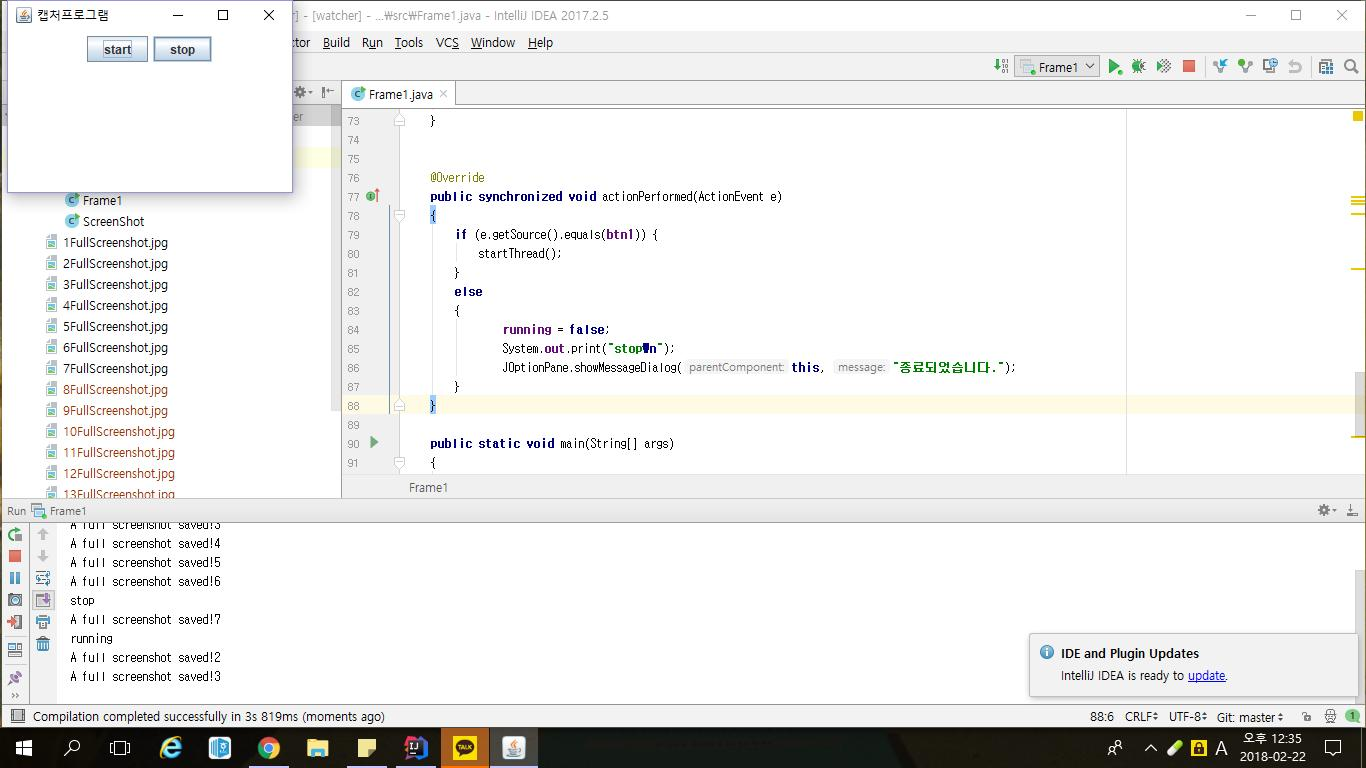
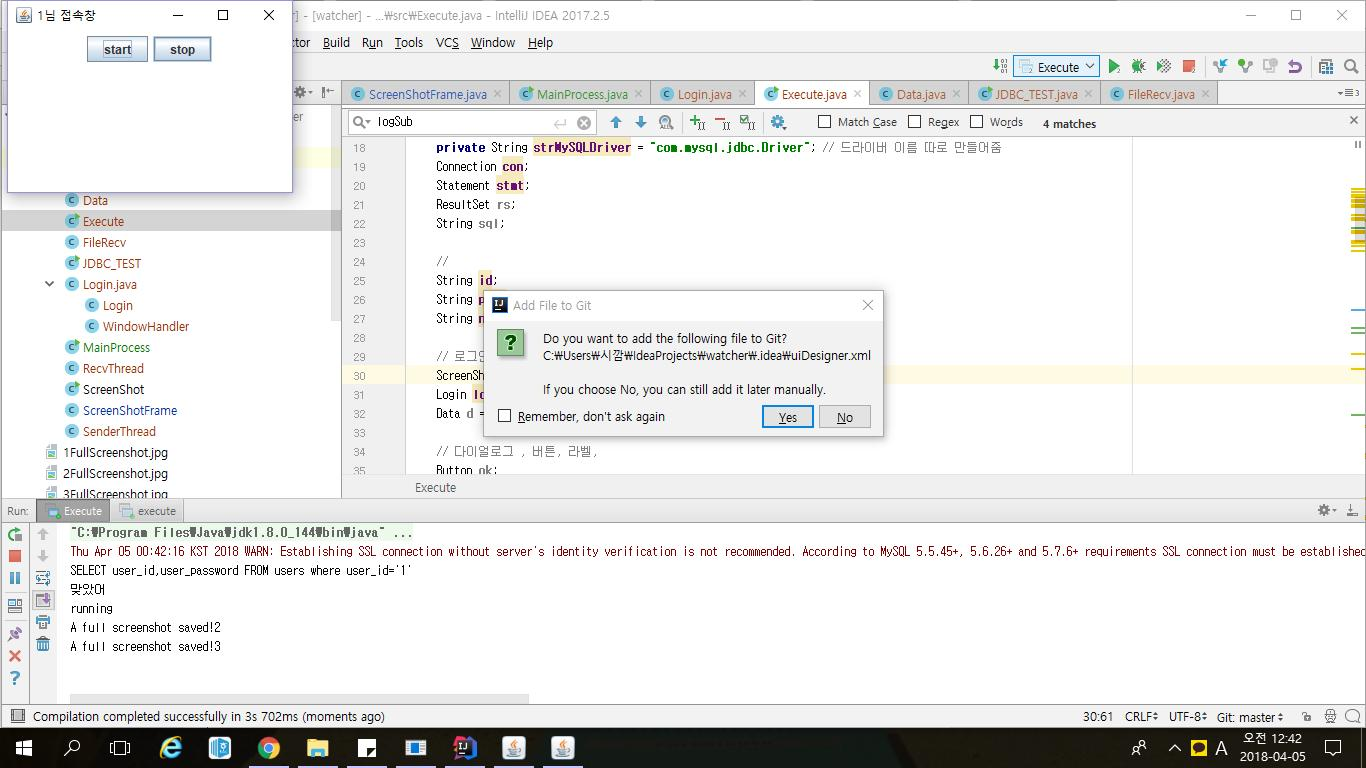
login 기능

diff --git a/src/ScreenShotFrame.java b/src/ScreenShotFrame.java
@@ -3,8 +3,7 @@ import java.awt.Frame;
 import java.awt.event.ActionEvent;
 import java.awt.event.ActionListener;
 
-import javax.swing.JButton;
-import javax.swing.JOptionPane;
+import javax.swing.*;
 
 import java.awt.AWTException;
 import java.awt.Rectangle;
@@ -17,14 +16,17 @@ import java.io.IOException;
 import javax.imageio.ImageIO;
 
 
-public class Frame1 extends Frame implements ActionListener
+public class ScreenShotFrame extends Frame implements ActionListener
 {
     JButton btn1 = new JButton("start");
     JButton btn2 = new JButton("stop");
+    JLabel greetingLabel = new JLabel("aa");
+
+
     boolean running = false;
 
 
-    public Frame1()
+    public ScreenShotFrame()
     {
 
         super("캡처프로그램");
@@ -34,7 +36,7 @@ public class Frame1 extends Frame implements ActionListener
         this.add(btn2);
 
         this.setSize(300, 200);
-        this.setVisible(true);
+        this.setVisible(false);
 
         btn1.addActionListener(this);
         btn2.addActionListener(this);
@@ -85,13 +87,6 @@ public class Frame1 extends Frame implements ActionListener
                 System.out.print("stop\n");
                 JOptionPane.showMessageDialog(this, "종료되었습니다.");
         }
-    }
-
-    public static void main(String[] args)
-    {
-        boolean running = false;
-        new Frame1();
-
     }
 
 }

diff --git a/src/MainProcess.java b/src/MainProcess.java
@@ -1,0 +1,8 @@
+public class MainProcess {
+    public static void main(String[] args)
+    {
+        boolean running = false;
+        new Login();
+
+    }
+}
